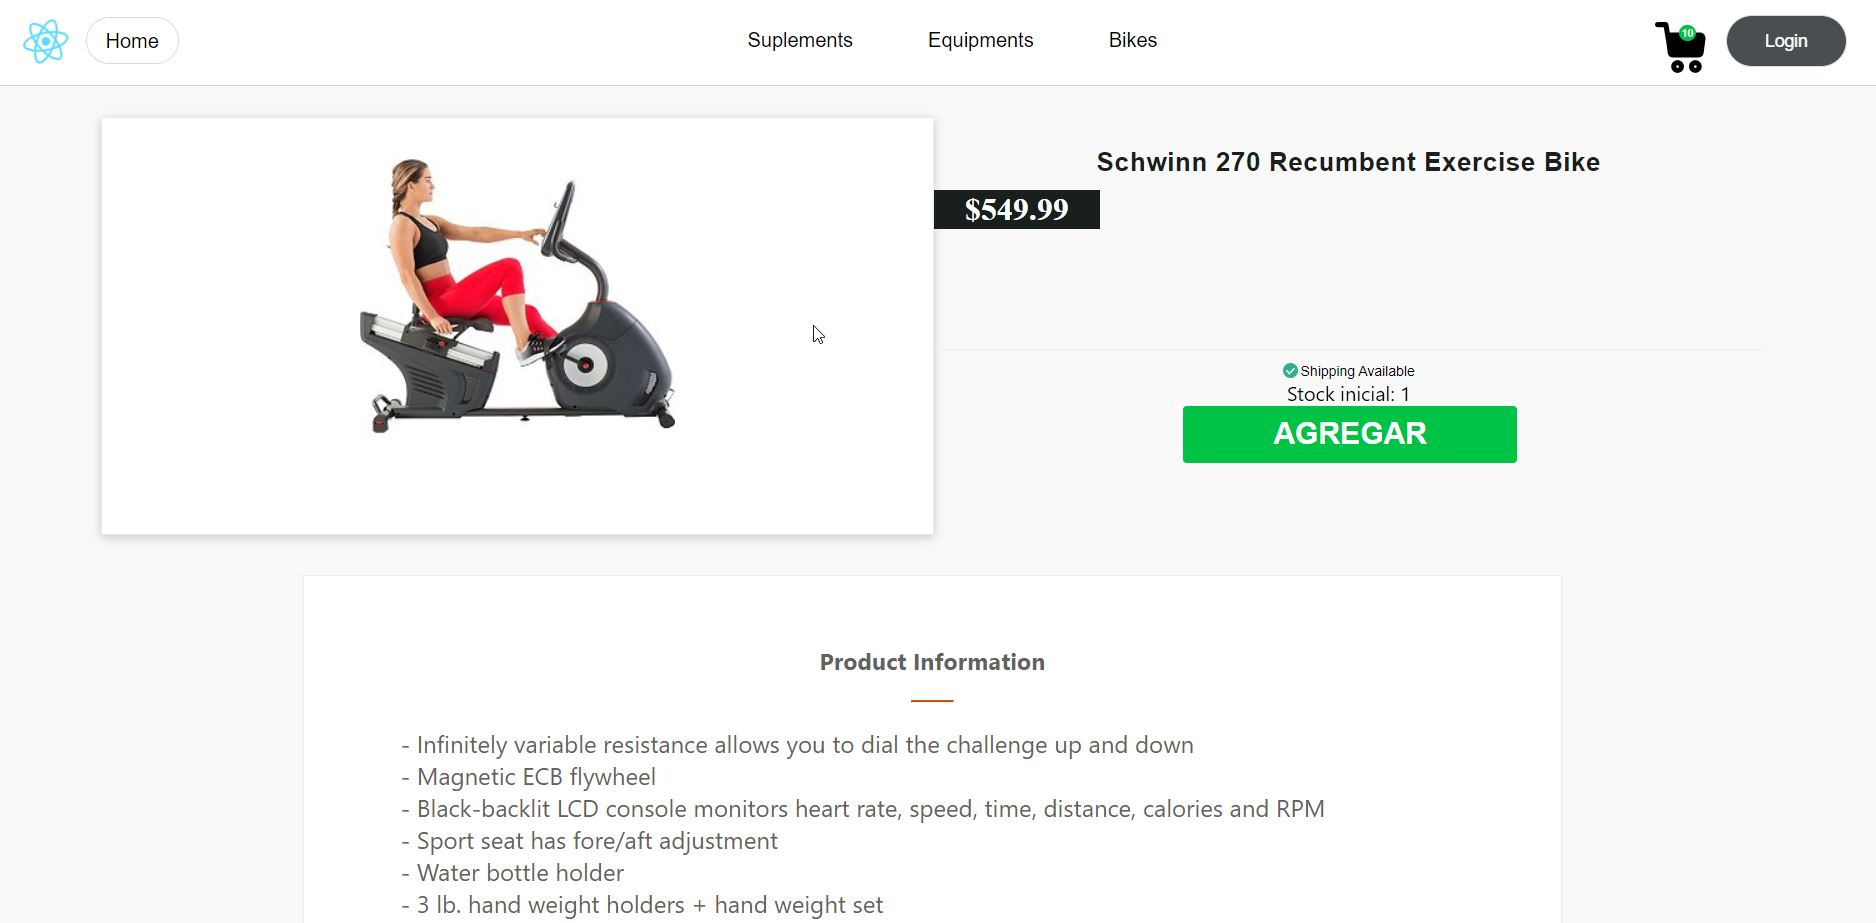
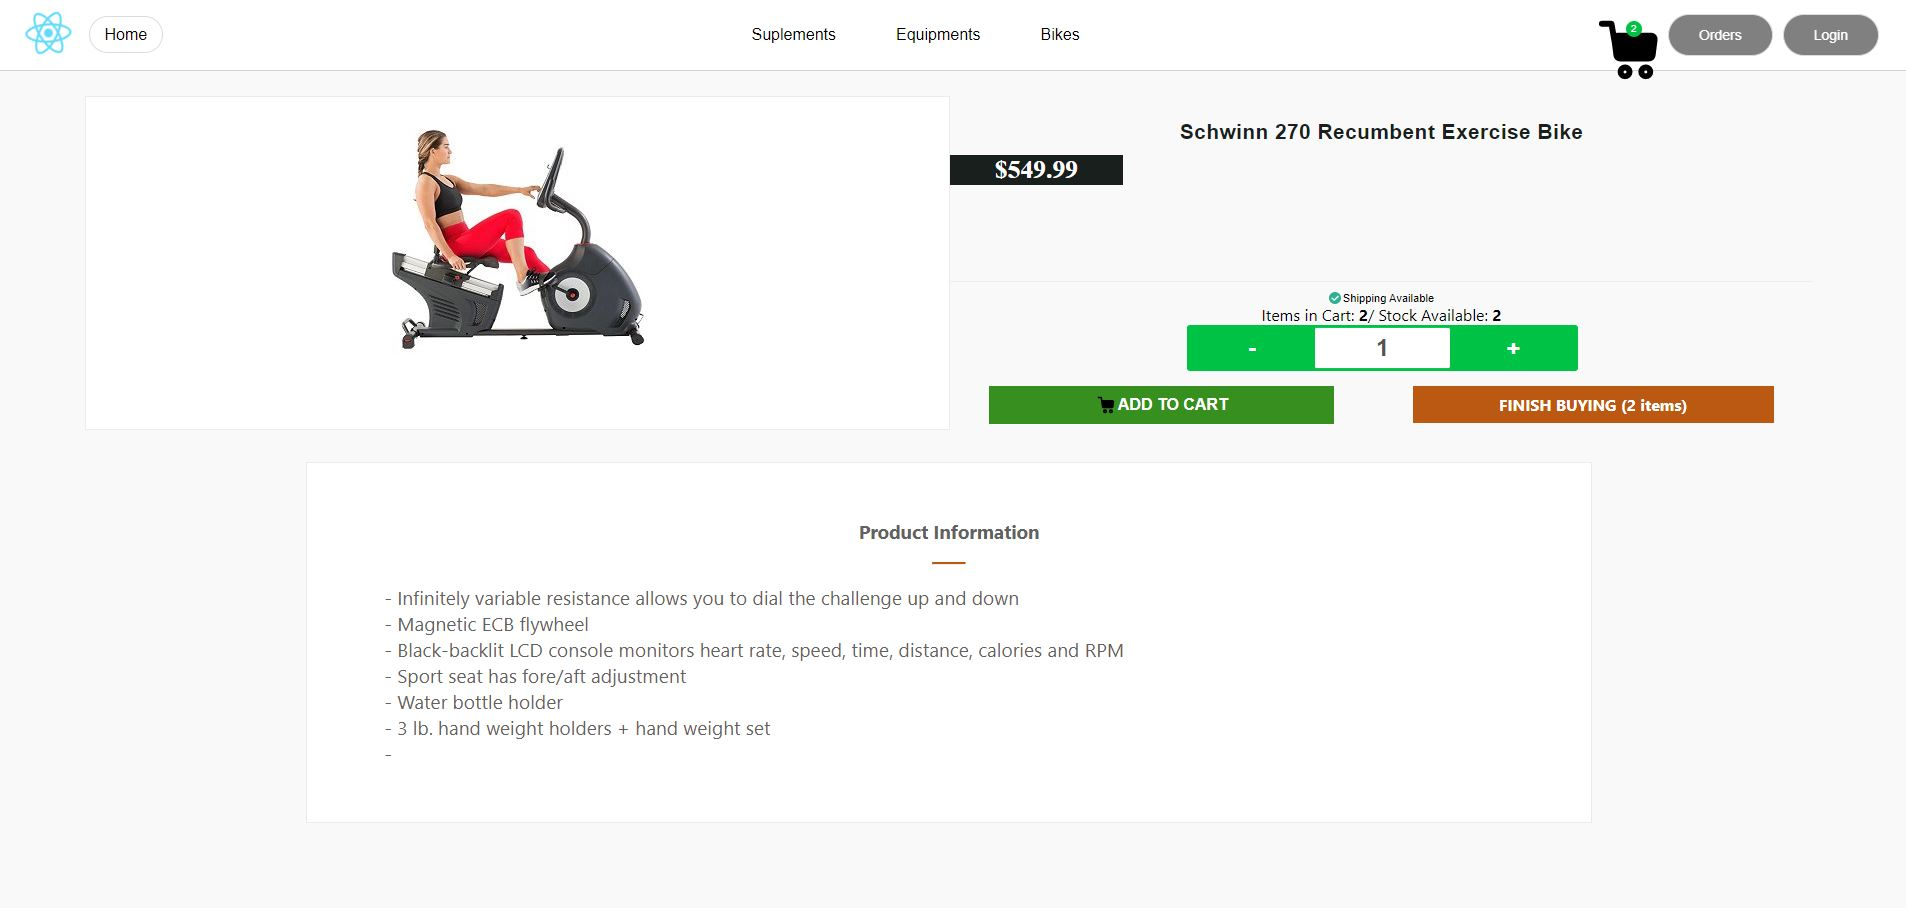
updated MarkDown

diff --git a/src/components/modules/Orders/Orders.js b/src/components/modules/Orders/Orders.js
@@ -17,8 +17,9 @@ import CustomButton from "../../shared/components/Buttons/CustomButton.js";
 import ShoppingCart from "../../../assets/images/shoppingCart.svg";
 import { useState, useEffect } from "react";
 import TrashImage from "../../../assets/images/trashIcon.svg";
-import { getFirestore, getDocs, collection, updateDoc, doc, deleteDoc,  getDoc } from "firebase/firestore";
+import { getFirestore, getDocs, collection, updateDoc, doc, deleteDoc, getDoc } from "firebase/firestore";
 import Spinner from "../../shared/components/Spinner/Spinner.js";
+import { toast } from "react-toastify";
 
 const Orders = () => {
   const [orders, setOrders] = useState([]);
@@ -26,15 +27,12 @@ const Orders = () => {
   const [error, setError] = useState(false);
   const db = getFirestore();
 
-  // sacar products
-  
-
   useEffect(() => {
     const getOrders = () => {
       setLoading(true);
-  
+
       const queryCollection = collection(db, "orders");
-  
+
       getDocs(queryCollection)
         .then((response) => {
           const data = response.docs.map((order) => {
@@ -44,45 +42,36 @@ const Orders = () => {
           setLoading(false);
         })
         .catch((error) => {
-          console.log(error);
           setLoading(false);
           setError(true);
         });
-    }
+    };
     getOrders();
   }, [db]);
 
   const removeItem = (id) => {
-    setLoading(true)
+    setLoading(true);
     orders
       .find((order) => order.id === id)
       .items.forEach(async (item) => {
-
         const queryUpdate = doc(db, "items", item.id);
         const itemFromFB = await getDoc(queryUpdate);
         const itemDetail = itemFromFB.data();
 
         updateDoc(queryUpdate, { stock: itemDetail.stock + item.quantity })
           .then(() => {
-            console.log("agregado item" + item.id);
+            console.log("updated stock item" + item.id);
           })
-          .catch(() => {
-            alert("Se produjo error al hacer update de los items");
-          });
+          .catch(() => toast.error("Error updating items collection"));
       });
 
-        deleteDoc(doc(db, "orders", id))
+    deleteDoc(doc(db, "orders", id))
       .then(() => {
-        console.log("documento eliminado id: " + id);
-        //TODO agregar alert
-        setOrders(orders.filter(order => order.id !== id))
+        toast.success(`Order ${id} deleted successfully.`, { theme: "colored" });
+        setOrders(orders.filter((order) => order.id !== id));
         setLoading(false);
       })
-      .catch((error) => {
-        console.log(error);
-        console.log("se porudjo error");
-      }); 
-      
+      .catch((error) => toast.error("Error deleting order", error));
   };
 
   return (
@@ -114,9 +103,22 @@ const Orders = () => {
                     <p>
                       ORDER ID: <strong>{order.id}</strong>
                     </p>
-                    <p>Buyer: {order.buyer.name}</p>
-                    <p>Total Products: {order.items.length}</p>
-                    <p>Total Price Order: ${order.total}</p>
+                    <p>
+                      {" "}
+                      <strong>Buyer: </strong>
+                      {order.buyer.name}
+                    </p>
+                    <p>
+                      <strong>Total Products: </strong>
+                      {order.items.length}
+                    </p>
+                    <p>
+                      <strong>Date: </strong>
+                      {order.date.toDate().toDateString()}
+                    </p>
+                    <p>
+                      <strong>Total Price Order:</strong> ${order.total}
+                    </p>
                   </OrderBuyer>
                   <ItemsDetailContainer>
                     {order.items.map((item) => (

diff --git a/src/components/modules/Cart/Cart.js b/src/components/modules/Cart/Cart.js
@@ -25,7 +25,7 @@ import Modal from "../../shared/components/Modal/Modal.js";
 import CustomForm from "../../shared/components/Forms/CustomForm.js";
 import UserContext from "./../../../context/UserContext";
 import Spinner from "../../shared/components/Spinner/Spinner.js";
-
+import { toast } from "react-toastify";
 const Cart = () => {
   const [modal, setModal] = useState(false);
   const [user, setUser] = useState({
@@ -34,7 +34,7 @@ const Cart = () => {
     phone: "",
   });
   const [orderNumber, setOrderNumber] = useState(0);
-  const [loading, setLoading] = useState(false)
+  const [loading, setLoading] = useState(false);
   const { products, removeItem, totalPrice, clear } = useContext(CartContext);
   const { users } = useContext(UserContext);
   const db = getFirestore();
@@ -43,7 +43,7 @@ const Cart = () => {
   }, [users]);
   const handleSubmit = (e) => {
     e.preventDefault();
-    setLoading(true)
+    setLoading(true);
 
     const newOrder = {
       buyer: {
@@ -52,7 +52,7 @@ const Cart = () => {
         email: user.email,
       },
       items: products,
-      total: totalPrice(),
+      total: totalPrice().toFixed(2),
       date: new Date(),
     };
     const query = collection(db, "orders");
@@ -62,12 +62,11 @@ const Cart = () => {
       .then((response) => {
         updateStockItems();
         setOrderNumber(response.id);
-        setLoading(false)
+        setLoading(false);
         setModal(true);
-
         clear();
       })
-      .catch((error) => alert("Error generating order number"));
+      .catch((error) => toast.error("Error generating order number"));
   };
 
   const updateStockItems = () => {
@@ -77,10 +76,13 @@ const Cart = () => {
         .then(() => {
           console.log("updated item" + product.id);
         })
-        .catch(() => {
-          alert("Se produjo error al hacer update de los items");
-        });
+        .catch(() => toast.error("Error updating items"));
     });
+  };
+
+  const deleteProductFromCart = (id) => {
+    removeItem(id);
+    toast.success(`Deleted Item ${id} from cart.`, { theme: "colored" });
   };
 
   return (
@@ -128,7 +130,7 @@ const Cart = () => {
                       </div>
                     </ProductDescription>
                   </ProductDetail>
-                  <ProductDelete onClick={() => removeItem(item.id)}>
+                  <ProductDelete onClick={() => deleteProductFromCart(item.id)}>
                     <span>Delete</span>
                     <img src={TrashImage} alt={"Delete"} />
                   </ProductDelete>
@@ -141,7 +143,7 @@ const Cart = () => {
             <DetailPrices>
               <ItemPrice>
                 <div>Order SubTotal</div>
-                <div>${totalPrice()}</div>
+                <div>${totalPrice().toFixed(2)}</div>
               </ItemPrice>
 
               <ItemPrice>
@@ -150,7 +152,7 @@ const Cart = () => {
               </ItemPrice>
               <ItemPriceTotal>
                 <div>Estimated Order Total</div>
-                <div>${totalPrice()}</div>
+                <div>${totalPrice().toFixed(2)}</div>
               </ItemPriceTotal>
               <CustomForm
                 handleSubmit={handleSubmit}

diff --git a/src/components/modules/ItemDetailContainer/ItemDetailContainer.js b/src/components/modules/ItemDetailContainer/ItemDetailContainer.js
@@ -5,6 +5,7 @@ import styled from "styled-components";
 import Spinner from "../../shared/components/Spinner/Spinner";
 import ItemDetail from "../ItemDetail/ItemDetail";
 import { getFirestore, doc, getDoc } from "firebase/firestore";
+import { toast } from "react-toastify";
 
 const ItemDetailContainer = () => {
   const [product, setProduct] = useState();
@@ -21,8 +22,8 @@ const ItemDetailContainer = () => {
           setProduct(data);
           setLoading(false);
         })
-        .catch((error) => {
-          console.log(error);
+        .catch(() => {
+          toast.error("Error getting detail of items");
           setLoading(false);
         });
     };
@@ -43,6 +44,5 @@ const Wrapper = styled.div`
   @media (max-width: 768px) {
     padding: 1rem;
     margin-top: 4rem;
-    
   }
 `;

diff --git a/src/components/modules/NavBar/NavBar.js b/src/components/modules/NavBar/NavBar.js
@@ -7,6 +7,7 @@ import CartContext from "../../../context/CartContext";
 import Modal from "../../shared/components/Modal/Modal";
 import CustomForm from "../../shared/components/Forms/CustomForm";
 import UserContext from "../../../context/UserContext";
+import { toast } from "react-toastify";
 
 const NavBar = () => {
   const [modal, setModal] = useState(false);
@@ -39,7 +40,7 @@ const NavBar = () => {
     e.preventDefault();
 
     if (!user.email || !user.name || !user.phone) {
-      alert("Please complete the fields!");
+      toast.warning("Please complete all the fields!");
       return;
     }
 

diff --git a/src/App.js b/src/App.js
@@ -5,6 +5,8 @@ import NavBar from "./components/modules/NavBar/NavBar";
 import { CartProvider } from "./context/CartProvider";
 import UserProvider from "./context/UserProvider";
 import AppRoute from "./Routing/AppRoute";
+import { ToastContainer } from 'react-toastify'
+import 'react-toastify/dist/ReactToastify.css';
 
 function App() {
   return (
@@ -13,6 +15,7 @@ function App() {
         <UserProvider>
           <BrowserRouter>
             <NavBar />
+            <ToastContainer />
             <AppRoute />
           </BrowserRouter>
         </UserProvider>

diff --git a/src/components/modules/Orders/OrdersStyle.js b/src/components/modules/Orders/OrdersStyle.js
@@ -180,6 +180,10 @@ export const OrderBuyer = styled.div`
   justify-content: center;
   align-items: center;
 
+  p {
+    margin: 3px;
+  }
+
   @media (max-width: 768px) {
     width: 90%;
     p {

diff --git a/src/App.css b/src/App.css
@@ -14,7 +14,7 @@
   }
 }
 
-@media (prefers-reduced-motion: no-preference) {
+@media (max-width: 768px) {
   .App-logo {
     height: 10vmin;
   }

diff --git a/README.md b/README.md
@@ -1,28 +1,45 @@
 # E-commerce Sport Ruda
 
 This is a sample E-commerce website to excel all the knowledge that was adquired in the React Course. The application uses
-a list of Products from a Json Data and displays them into the Home Page. The website renders list stuff to fitness people such as Suplements, 
-accesories, bikes, etc. The application displays the list of item for each category mentioned early and you can get the item's information clicking the item.
+a list of Products from a collection in Firebase and displays them into the Home Page. The website renders list stuff to fitness people such as Suplements, accesories, bikes, etc. The application displays the list of item for each category mentioned early and you can get the item's information clicking the item.
+You can make an order with the items in your cart, which they were previously seletect in each Item Detail.
+On top of that you can take over of your orders generated.
 
 ## Import Data
 
-I have created the file products.js where you have the repository of the website.
+All the products are obtained from a collection in Firebase.
 
 ## Live Demonstration
+
+Here are a gift showing the E-commerce website in use. Step by step to make an order:
+![Gift](/src/assets/screenshots/ecommerceRuda.gif)
+
+Here are a gift showing the extras sections added to the E-commerce website such as Login and Order. Things yo can do:
+* Make a user login to save the data to create an order
+* List orders saved in Firebase
+* Delete an order and update stock of each item belongs to the order deleted
+![Gift](/src/assets/screenshots/extras.gif)
 
 Here are screenshots that show the E-commerce website in use
 
 **Home Page**
 ![Home Page](/src/assets/screenshots/itemListContainer.jpg?raw=true "Optional Title")
 
-
 **Item Detail Page**
 ![Item Detail Page](/src/assets/screenshots/itemDetailContainer.jpg?raw=true "Optional Title")
+
+**Cart Page**
+![Cart Page](/src/assets/screenshots/cart.jpg?raw=true "Cart Page")
 
 
 **Item Count**
 ![Item Count](/src/assets/screenshots/itemCount.jpg?raw=true  "Item Count")
 
+**Login Page**
+![Login Count](/src/assets/screenshots/login.jpg?raw=true  "Login Page")
+
+**Order Page**
+![Order Page](/src/assets/screenshots/order.jpg?raw=true "Order Page")
 
 ## Getting Started
 
@@ -48,6 +65,8 @@ npm start
 ## Tech Stack
 * React
 * Styled Components
+* React-Toastify
 
 For styles I decided to use Styled Component to avoid the complexity of others libreries such as BootStrap, Material-UI, etc.
+For messages to users, I choose react-toastify, a simple library used to notify success and error events.
 
